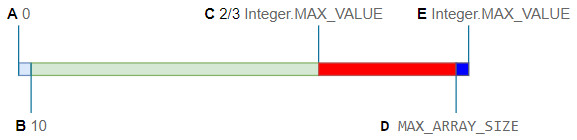
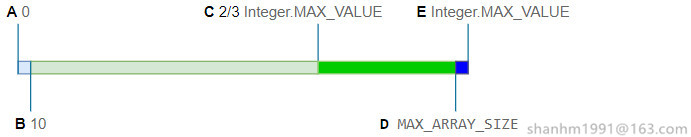
Site updated: 2021-01-01 10:51:21

diff --git a/2017/09/10/20170910/index.html b/2017/09/10/20170910/index.html
@@ -91,7 +91,7 @@
 <script async src="//busuanzi.ibruce.info/busuanzi/2.3/busuanzi.pure.mini.js"></script>
 
 
-   <font style="color: #999;"> words: 2.8k  &nbsp;&nbsp; views: <span id="busuanzi_value_page_pv"></span> &nbsp;&nbsp; time: 12min</font>
+   <font style="color: #999;"> words: 2.7k  &nbsp;&nbsp; views: <span id="busuanzi_value_page_pv"></span> &nbsp;&nbsp; time: 12min</font>
    
    
   
@@ -129,24 +129,23 @@
 <li><a href="https://shanhm1991.github.io/2017/08/31/20170831/">java基础. 泛型</a>  </li>
 </ul>
 <h3 id="1-ArrayList"><a href="#1-ArrayList" class="headerlink" title="1. ArrayList"></a>1. ArrayList</h3><p>ArrayList相当于对数组做了一层代理，它在插入删除时做了两件事：<br>1、负责对数组进行扩容处理，在插入元素时可能造成数组越界，而ArrayList会提前检查并进行扩容；<br>2、负责对数组元素进行移动，以保证元素在位置上的连续性，在指定位置插入或删除元素时可能要对前后的元素进行移动；</p>
-<h4 id="1-1-属性"><a href="#1-1-属性" class="headerlink" title="1.1. 属性"></a>1.1. 属性</h4><figure class="highlight java"><table><tr><td class="gutter"><pre><span class="line">1</span><br><span class="line">2</span><br><span class="line">3</span><br><span class="line">4</span><br><span class="line">5</span><br><span class="line">6</span><br><span class="line">7</span><br><span class="line">8</span><br><span class="line">9</span><br><span class="line">10</span><br><span class="line">11</span><br><span class="line">12</span><br><span class="line">13</span><br><span class="line">14</span><br><span class="line">15</span><br><span class="line">16</span><br><span class="line">17</span><br><span class="line">18</span><br><span class="line">19</span><br><span class="line">20</span><br><span class="line">21</span><br></pre></td><td class="code"><pre><span class="line"><span class="keyword">public</span> <span class="class"><span class="keyword">class</span> <span class="title">ArrayList</span>&lt;<span class="title">E</span>&gt; <span class="keyword">extends</span> <span class="title">AbstractList</span>&lt;<span class="title">E</span>&gt;</span></span><br><span class="line"><span class="class">        <span class="keyword">implements</span> <span class="title">List</span>&lt;<span class="title">E</span>&gt;, <span class="title">RandomAccess</span>, <span class="title">Cloneable</span>, <span class="title">java</span>.<span class="title">io</span>.<span class="title">Serializable</span> </span>&#123;</span><br><span class="line"></span><br><span class="line">    <span class="comment">// 数组默认长度，如果初始化长度小于10，则第一次扩容时直接置为10</span></span><br><span class="line">    <span class="keyword">private</span> <span class="keyword">static</span> <span class="keyword">final</span> <span class="keyword">int</span> DEFAULT_CAPACITY = <span class="number">10</span>;</span><br><span class="line"></span><br><span class="line">    <span class="comment">// 数组最大长度Integer.MAX_VALUE - 8，超过可能导致算术溢出</span></span><br><span class="line">    <span class="comment">// 由于有的VM可能在数组中保存一些头信息</span></span><br><span class="line">    <span class="keyword">private</span> <span class="keyword">static</span> <span class="keyword">final</span> <span class="keyword">int</span> MAX_ARRAY_SIZE = Integer.MAX_VALUE - <span class="number">8</span>;</span><br><span class="line"></span><br><span class="line">    <span class="comment">// 空数组，默认构造器即初始化一个空数组</span></span><br><span class="line">    <span class="keyword">private</span> <span class="keyword">static</span> <span class="keyword">final</span> Object[] EMPTY_ELEMENTDATA = &#123;&#125;;</span><br><span class="line"></span><br><span class="line">    <span class="comment">// 数组</span></span><br><span class="line">    <span class="keyword">transient</span> Object[] elementData;</span><br><span class="line"></span><br><span class="line">    <span class="comment">// 元素个数</span></span><br><span class="line">    <span class="keyword">private</span> <span class="keyword">int</span> size;</span><br><span class="line"></span><br><span class="line">    ...</span><br><span class="line">&#125;</span><br></pre></td></tr></table></figure>
+<h4 id="1-1-属性"><a href="#1-1-属性" class="headerlink" title="1.1. 属性"></a>1.1. 属性</h4><figure class="highlight java"><table><tr><td class="gutter"><pre><span class="line">1</span><br><span class="line">2</span><br><span class="line">3</span><br><span class="line">4</span><br><span class="line">5</span><br><span class="line">6</span><br><span class="line">7</span><br><span class="line">8</span><br><span class="line">9</span><br><span class="line">10</span><br><span class="line">11</span><br><span class="line">12</span><br><span class="line">13</span><br><span class="line">14</span><br><span class="line">15</span><br><span class="line">16</span><br><span class="line">17</span><br><span class="line">18</span><br><span class="line">19</span><br><span class="line">20</span><br><span class="line">21</span><br></pre></td><td class="code"><pre><span class="line"><span class="keyword">public</span> <span class="class"><span class="keyword">class</span> <span class="title">ArrayList</span>&lt;<span class="title">E</span>&gt; <span class="keyword">extends</span> <span class="title">AbstractList</span>&lt;<span class="title">E</span>&gt;</span></span><br><span class="line"><span class="class">        <span class="keyword">implements</span> <span class="title">List</span>&lt;<span class="title">E</span>&gt;, <span class="title">RandomAccess</span>, <span class="title">Cloneable</span>, <span class="title">java</span>.<span class="title">io</span>.<span class="title">Serializable</span> </span>&#123;</span><br><span class="line"></span><br><span class="line">    <span class="comment">// 数组默认长度，如果初始化长度小于10，则第一次扩容时直接置为10</span></span><br><span class="line">    <span class="keyword">private</span> <span class="keyword">static</span> <span class="keyword">final</span> <span class="keyword">int</span> DEFAULT_CAPACITY = <span class="number">10</span>;</span><br><span class="line"></span><br><span class="line">    <span class="comment">// 有的VM可能在数组中保存一些头信息，如果想数组中放入Integer.MAX_VALUE个元素，可能导致越界；</span></span><br><span class="line">    <span class="comment">// 所以扩容时先尽量扩为Integer.MAX_VALUE - 8，如果确实需要，再扩为Integer.MAX_VALUE</span></span><br><span class="line">    <span class="keyword">private</span> <span class="keyword">static</span> <span class="keyword">final</span> <span class="keyword">int</span> MAX_ARRAY_SIZE = Integer.MAX_VALUE - <span class="number">8</span>;</span><br><span class="line"></span><br><span class="line">    <span class="comment">// 空数组，默认构造器即初始化一个空数组</span></span><br><span class="line">    <span class="keyword">private</span> <span class="keyword">static</span> <span class="keyword">final</span> Object[] EMPTY_ELEMENTDATA = &#123;&#125;;</span><br><span class="line"></span><br><span class="line">    <span class="comment">// 数组</span></span><br><span class="line">    <span class="keyword">transient</span> Object[] elementData;</span><br><span class="line"></span><br><span class="line">    <span class="comment">// 元素个数</span></span><br><span class="line">    <span class="keyword">private</span> <span class="keyword">int</span> size;</span><br><span class="line"></span><br><span class="line">    ...</span><br><span class="line">&#125;</span><br></pre></td></tr></table></figure>
 
 <h4 id="1-2-接口实现"><a href="#1-2-接口实现" class="headerlink" title="1.2. 接口实现"></a>1.2. 接口实现</h4><p>主要看一下<code>add</code>和<code>remove</code>以及迭代器的实现，其他操作基本都可以在此基础上实现</p>
 <h5 id="1-2-1-add"><a href="#1-2-1-add" class="headerlink" title="1.2.1. add"></a>1.2.1. add</h5><figure class="highlight java"><figcaption><span class="caption">java.util.ArrayList</span></figcaption><table><tr><td class="gutter"><pre><span class="line">1</span><br><span class="line">2</span><br><span class="line">3</span><br><span class="line">4</span><br><span class="line">5</span><br><span class="line">6</span><br><span class="line">7</span><br><span class="line">8</span><br><span class="line">9</span><br><span class="line">10</span><br><span class="line">11</span><br><span class="line">12</span><br><span class="line">13</span><br><span class="line">14</span><br><span class="line">15</span><br><span class="line">16</span><br><span class="line">17</span><br><span class="line">18</span><br><span class="line">19</span><br><span class="line">20</span><br><span class="line">21</span><br><span class="line">22</span><br><span class="line">23</span><br><span class="line">24</span><br><span class="line">25</span><br><span class="line">26</span><br><span class="line">27</span><br><span class="line">28</span><br><span class="line">29</span><br><span class="line">30</span><br><span class="line">31</span><br><span class="line">32</span><br><span class="line">33</span><br><span class="line">34</span><br><span class="line">35</span><br><span class="line">36</span><br><span class="line">37</span><br><span class="line">38</span><br><span class="line">39</span><br></pre></td><td class="code"><pre><span class="line"><span class="function"><span class="keyword">public</span> <span class="keyword">boolean</span> <span class="title">add</span><span class="params">(E e)</span> </span>&#123;</span><br><span class="line">    ensureCapacityInternal(size + <span class="number">1</span>);  </span><br><span class="line">    elementData[size++] = e;</span><br><span class="line">    <span class="keyword">return</span> <span class="keyword">true</span>;</span><br><span class="line">&#125;</span><br><span class="line"></span><br><span class="line"><span class="function"><span class="keyword">private</span> <span class="keyword">void</span> <span class="title">ensureCapacityInternal</span><span class="params">(<span class="keyword">int</span> minCapacity)</span> </span>&#123;</span><br><span class="line">    <span class="keyword">if</span> (elementData == EMPTY_ELEMENTDATA) &#123; </span><br><span class="line">        minCapacity = Math.max(DEFAULT_CAPACITY, minCapacity);</span><br><span class="line">    &#125;</span><br><span class="line">    ensureExplicitCapacity(minCapacity);</span><br><span class="line">&#125;</span><br><span class="line"></span><br><span class="line"><span class="function"><span class="keyword">private</span> <span class="keyword">void</span> <span class="title">ensureExplicitCapacity</span><span class="params">(<span class="keyword">int</span> minCapacity)</span> </span>&#123;</span><br><span class="line">    modCount++;</span><br><span class="line">    <span class="keyword">if</span> (minCapacity - elementData.length &gt; <span class="number">0</span>) </span><br><span class="line">        grow(minCapacity);</span><br><span class="line">&#125;</span><br><span class="line"></span><br><span class="line marked"><span class="function"><span class="keyword">private</span> <span class="keyword">void</span> <span class="title">grow</span><span class="params">(<span class="keyword">int</span> minCapacity)</span> </span>&#123;</span><br><span class="line marked">    <span class="keyword">int</span> oldCapacity = elementData.length;</span><br><span class="line marked">    <span class="keyword">int</span> newCapacity = oldCapacity + (oldCapacity &gt;&gt; <span class="number">1</span>); </span><br><span class="line marked">	</span><br><span class="line marked">    <span class="keyword">if</span> (newCapacity - minCapacity &lt; <span class="number">0</span>) </span><br><span class="line marked">        newCapacity = minCapacity;</span><br><span class="line marked">		</span><br><span class="line marked">    <span class="keyword">if</span> (newCapacity - MAX_ARRAY_SIZE &gt; <span class="number">0</span>)</span><br><span class="line marked">        newCapacity = hugeCapacity(minCapacity);</span><br><span class="line marked">		</span><br><span class="line marked">    <span class="comment">// minCapacity is usually close to size, so this is a win:	</span></span><br><span class="line marked">    elementData = Arrays.copyOf(elementData, newCapacity);</span><br><span class="line marked">&#125;</span><br><span class="line marked"></span><br><span class="line marked"><span class="function"><span class="keyword">private</span> <span class="keyword">static</span> <span class="keyword">int</span> <span class="title">hugeCapacity</span><span class="params">(<span class="keyword">int</span> minCapacity)</span> </span>&#123; </span><br><span class="line marked">    <span class="keyword">if</span> (minCapacity &lt; <span class="number">0</span>) </span><br><span class="line marked">        <span class="keyword">throw</span> <span class="keyword">new</span> OutOfMemoryError();</span><br><span class="line marked">		</span><br><span class="line marked">    <span class="keyword">return</span> (minCapacity &gt; MAX_ARRAY_SIZE) ? Integer.MAX_VALUE : MAX_ARRAY_SIZE;</span><br><span class="line marked">&#125;</span><br></pre></td></tr></table></figure>
 
-<p>看add实现主要就是看下ArrayList是如何对数组进行扩容的，这里真正体现了什么叫做<font color="red">简单即复杂（要想写出更简单的代码则要付出更多的思考与努力）</font>，
+<p>看add实现主要就是看下ArrayList是如何对数组进行扩容的，这里真正体现了什么是<font color="red">简单即复杂（要想写出更简单的代码则要付出更多的思考与努力）</font>，
 上面的代码逻辑很少，却涵盖了所有的场景，可以梳理一下作者的思路：</p>
 <p>记原数组长度为oldCapacity，记其1.5倍为newCapacity，并记增加元素最低所需长度为minCapacity    <font color="LimeGreen"></p>
 <ol>
 <li>首先比较minCapacity与defaultCapacity，取较大者并记为minCapacity（确保首次扩容后至少为defaultCapacity）  </li>
-<li>再比较newCapacity与minCapacity，取较大者并记为newCapacity（如果newCapacity &lt; minCapacity，则有三种可能情形：1.5倍之后长度小于10；addAll接口将大list放入小list中；1.5倍后发生溢出）  </li>
-<li>最后，如果newCapacity &lt;= MAX_ARRAY_SIZE，则直接扩容结束，否则newCapacity超过了MAX_ARRAY_SIZE（包括溢出），那么再看minCapacity，尽量先扩为MAX_ARRAY_SIZE，
-如果实在minCapacity也超过了MAX_ARRAY_SIZE并且没溢出，那么就扩为Integer.MAX_VALUE，要是minCapacity溢出了，则异常退出</font></li>
+<li>再比较newCapacity与minCapacity，取较大者并记为newCapacity（如果newCapacity &lt; minCapacity，则有三种可能情形：1.5倍之后长度小于10；1.5倍之后溢出；addAll接口，1.5倍之后不足以放下新做的元素；）  </li>
+<li>最后，如果newCapacity &lt;= MAX_ARRAY_SIZE，则扩容完成，否则newCapacity超过了MAX_ARRAY_SIZE（包括溢出），那么再看minCapacity：<br>如果minCapacity没有达到MAX_ARRAY_SIZE，那么先扩为MAX_ARRAY_SIZE；<br>如果minCapacity超过了MAX_ARRAY_SIZE，但是没溢出（小于Integer.MAX_VALUE）则扩为Integer.MAX_VALUE；<br>如果minCapacity溢出，那么异常退出；</font></li>
 </ol>
-<p>扩容实现能这么简单干净，有两个判断比较关键：<br><code>newCapacity - MAX_ARRAY_SIZE &gt; 0</code>表示newCapacity超过了MAX_ARRAY_SIZE，包括溢出的可能<br><code>minCapacity &gt; MAX_ARRAY_SIZE</code>表示minCapacity超过了MAX_ARRAY_SIZE，但是没有溢出 </p>
-<p>了解扩容实现后，可以避免使用ArrayList过程中的一些坑，首先是尽量根据实际需要初始化对应的容量，减少不必要的扩容操作，另外要注意当容量达到Integer.MAX_VALUE的2/3时，
-每次增加都会触发扩容和溢出。可以画个简单的图更直观一些，当容量达到C点之后，1.5倍扩容必然会导致溢出，然后又会被置为size，以此循环往复</p>
+<p>其实扩容实现能这么简洁干净，有两个判断比较关键：<br><code>newCapacity - MAX_ARRAY_SIZE &gt; 0</code>表示newCapacity超过了MAX_ARRAY_SIZE，包括溢出的可能<br><code>minCapacity &gt; MAX_ARRAY_SIZE</code>表示minCapacity超过了MAX_ARRAY_SIZE，但是没有溢出 </p>
+<p>可以画个图描述得更清晰些（假设这里minCapacity每次只比需比oldCapacity大1）：    </p>
 <p><img src="/img/20170910.2.jpg" alt=""></p>
+<p>如果oldCapacity在A-B之间，那么newCapacity扩到B点；<br>如果oldCapacity在B-C之间，那么newCapacity正常扩为1.5倍；<br>如果oldCapacity在C-D之间，那么newCapacity扩到D点；<br>如果oldCapacity在D-E之间，那么newCapacity扩到E点；  </p>
 <h5 id="1-2-2-remove"><a href="#1-2-2-remove" class="headerlink" title="1.2.2. remove"></a>1.2.2. remove</h5><p>remove可以通过下标索引index来删除，也可以通过给定对象来删除所有与它equals的元素，注意是删除所有而不是只删除第一个equals的元素。</p>
 <figure class="highlight java"><table><tr><td class="gutter"><pre><span class="line">1</span><br><span class="line">2</span><br><span class="line">3</span><br><span class="line">4</span><br><span class="line">5</span><br><span class="line">6</span><br><span class="line">7</span><br><span class="line">8</span><br><span class="line">9</span><br><span class="line">10</span><br><span class="line">11</span><br><span class="line">12</span><br><span class="line">13</span><br><span class="line">14</span><br><span class="line">15</span><br><span class="line">16</span><br><span class="line">17</span><br><span class="line">18</span><br><span class="line">19</span><br><span class="line">20</span><br><span class="line">21</span><br><span class="line">22</span><br><span class="line">23</span><br><span class="line">24</span><br><span class="line">25</span><br><span class="line">26</span><br><span class="line">27</span><br><span class="line">28</span><br><span class="line">29</span><br><span class="line">30</span><br><span class="line">31</span><br><span class="line">32</span><br><span class="line">33</span><br><span class="line">34</span><br><span class="line">35</span><br><span class="line">36</span><br><span class="line">37</span><br><span class="line">38</span><br><span class="line">39</span><br><span class="line">40</span><br><span class="line">41</span><br><span class="line">42</span><br><span class="line">43</span><br><span class="line">44</span><br></pre></td><td class="code"><pre><span class="line"><span class="function"><span class="keyword">public</span> E <span class="title">remove</span><span class="params">(<span class="keyword">int</span> index)</span> </span>&#123;</span><br><span class="line">    <span class="comment">//检查index是否越界</span></span><br><span class="line">    rangeCheck(index);</span><br><span class="line"></span><br><span class="line">    modCount++;</span><br><span class="line">    E oldValue = elementData(index);</span><br><span class="line"></span><br><span class="line">    <span class="keyword">int</span> numMoved = size - index - <span class="number">1</span>;</span><br><span class="line">    <span class="comment">//如果index不在末尾，那么将index之后的所有元素向前移动一位</span></span><br><span class="line">    <span class="keyword">if</span> (numMoved &gt; <span class="number">0</span>)</span><br><span class="line">        System.arraycopy(elementData, index+<span class="number">1</span>, elementData, index, numMoved);						 </span><br><span class="line">    <span class="comment">//删除末尾元素					 </span></span><br><span class="line">    elementData[--size] = <span class="keyword">null</span>; <span class="comment">// clear to let GC do its work</span></span><br><span class="line">    <span class="keyword">return</span> oldValue;</span><br><span class="line">&#125;</span><br><span class="line"></span><br><span class="line"><span class="function"><span class="keyword">public</span> <span class="keyword">boolean</span> <span class="title">remove</span><span class="params">(Object o)</span> </span>&#123;</span><br><span class="line">    <span class="keyword">if</span> (o == <span class="keyword">null</span>) &#123;</span><br><span class="line">        <span class="keyword">for</span> (<span class="keyword">int</span> index = <span class="number">0</span>; index &lt; size; index++)</span><br><span class="line">            <span class="keyword">if</span> (elementData[index] == <span class="keyword">null</span>) &#123;</span><br><span class="line">                fastRemove(index);</span><br><span class="line">                <span class="keyword">return</span> <span class="keyword">true</span>;</span><br><span class="line">            &#125;</span><br><span class="line">    &#125; <span class="keyword">else</span> &#123;</span><br><span class="line">        <span class="keyword">for</span> (<span class="keyword">int</span> index = <span class="number">0</span>; index &lt; size; index++)</span><br><span class="line">            <span class="keyword">if</span> (o.equals(elementData[index])) &#123;</span><br><span class="line">                fastRemove(index);</span><br><span class="line">                <span class="keyword">return</span> <span class="keyword">true</span>;</span><br><span class="line">            &#125;</span><br><span class="line">    &#125;</span><br><span class="line">    <span class="keyword">return</span> <span class="keyword">false</span>;</span><br><span class="line">&#125;</span><br><span class="line"></span><br><span class="line"><span class="function"><span class="keyword">private</span> <span class="keyword">void</span> <span class="title">fastRemove</span><span class="params">(<span class="keyword">int</span> index)</span> </span>&#123;</span><br><span class="line">    modCount++;</span><br><span class="line">    <span class="keyword">int</span> numMoved = size - index - <span class="number">1</span>;</span><br><span class="line">	</span><br><span class="line">    <span class="comment">//如果index不在末尾，那么将index之后的所有元素向前移动一位</span></span><br><span class="line">    <span class="keyword">if</span> (numMoved &gt; <span class="number">0</span>)</span><br><span class="line">        System.arraycopy(elementData, index+<span class="number">1</span>, elementData, index,</span><br><span class="line">                         numMoved);</span><br><span class="line">    <span class="comment">//删除末尾元素	</span></span><br><span class="line">    elementData[--size] = <span class="keyword">null</span>; <span class="comment">// clear to let GC do its work</span></span><br><span class="line">&#125;</span><br></pre></td></tr></table></figure>
 

diff --git a/2018/05/27/20180527/index.html b/2018/05/27/20180527/index.html
@@ -102,7 +102,7 @@ root无法登录
    
   
   <div class="tags">
-    <a href="/tags/ubuntu/">ubuntu</a>   <a href="/tags/Mysql/">Mysql</a>
+    <a href="/tags/Mysql/">Mysql</a>   <a href="/tags/ubuntu/">ubuntu</a>
   </div>
 
 
@@ -234,7 +234,7 @@ root无法登录
         
   
   <div class="tags">
-    <a href="/tags/ubuntu/">ubuntu</a>   <a href="/tags/Mysql/">Mysql</a>
+    <a href="/tags/Mysql/">Mysql</a>   <a href="/tags/ubuntu/">ubuntu</a>
   </div>
 
 
